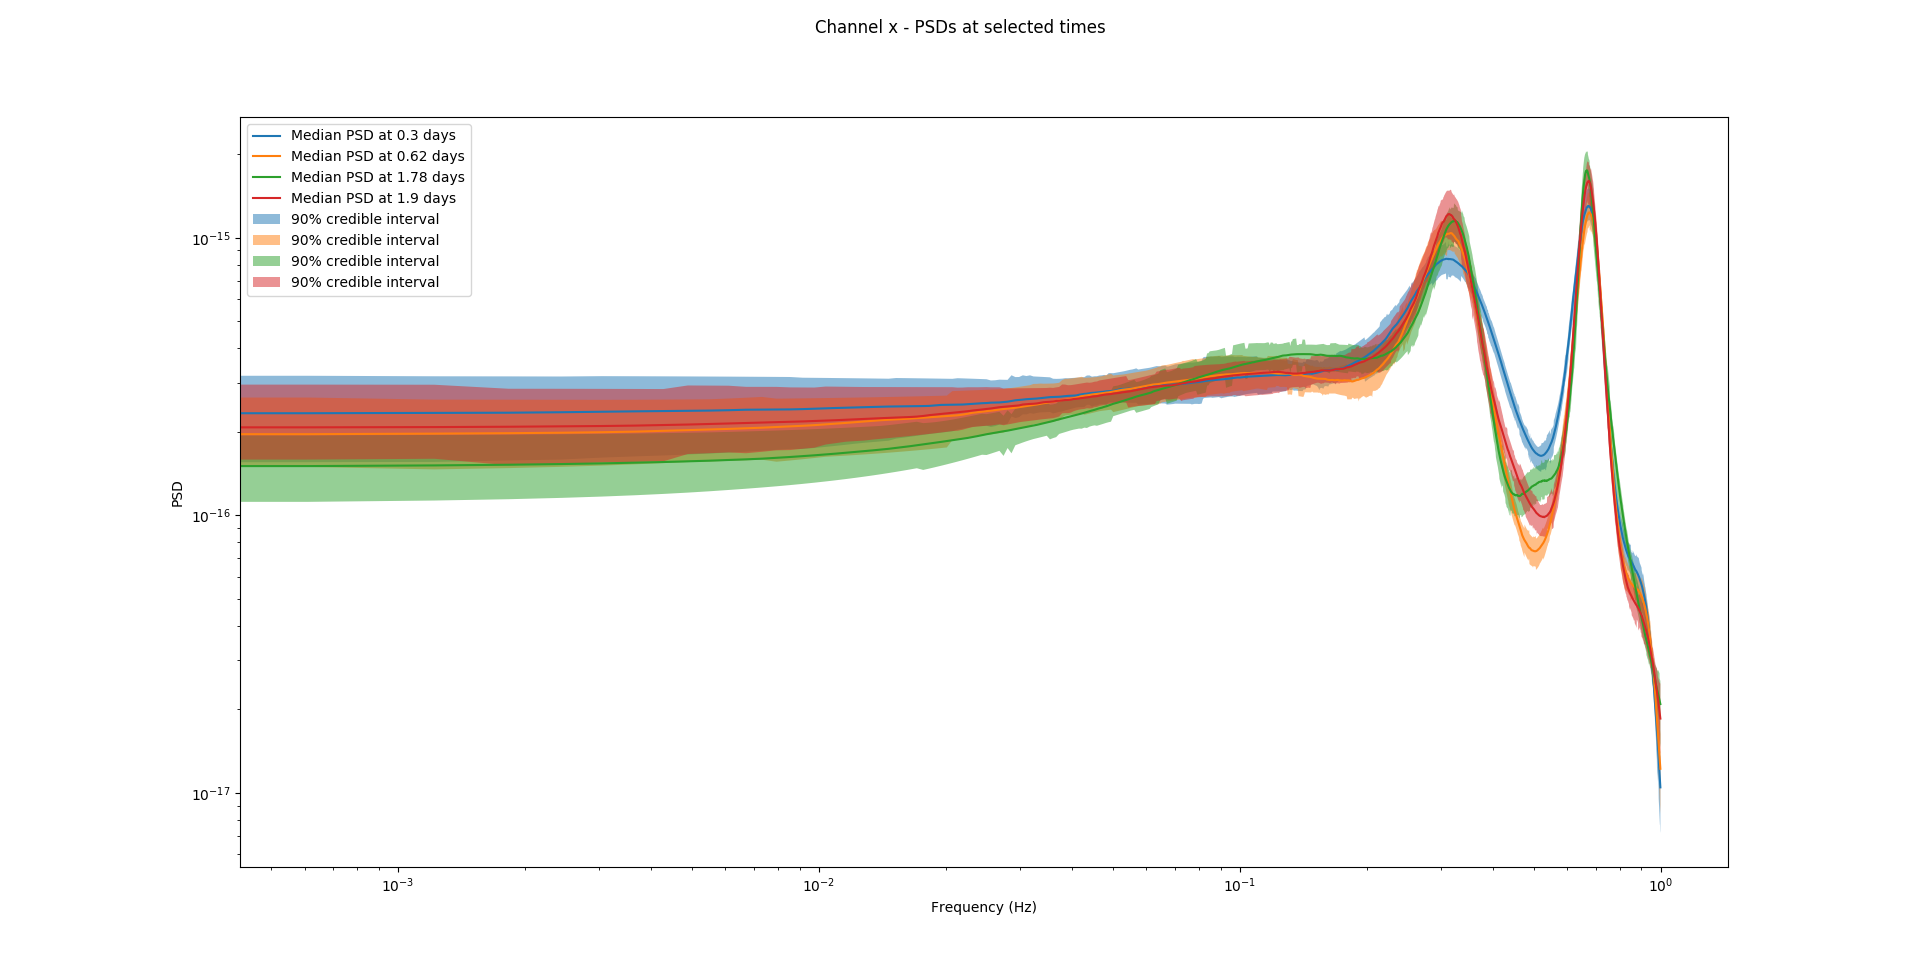
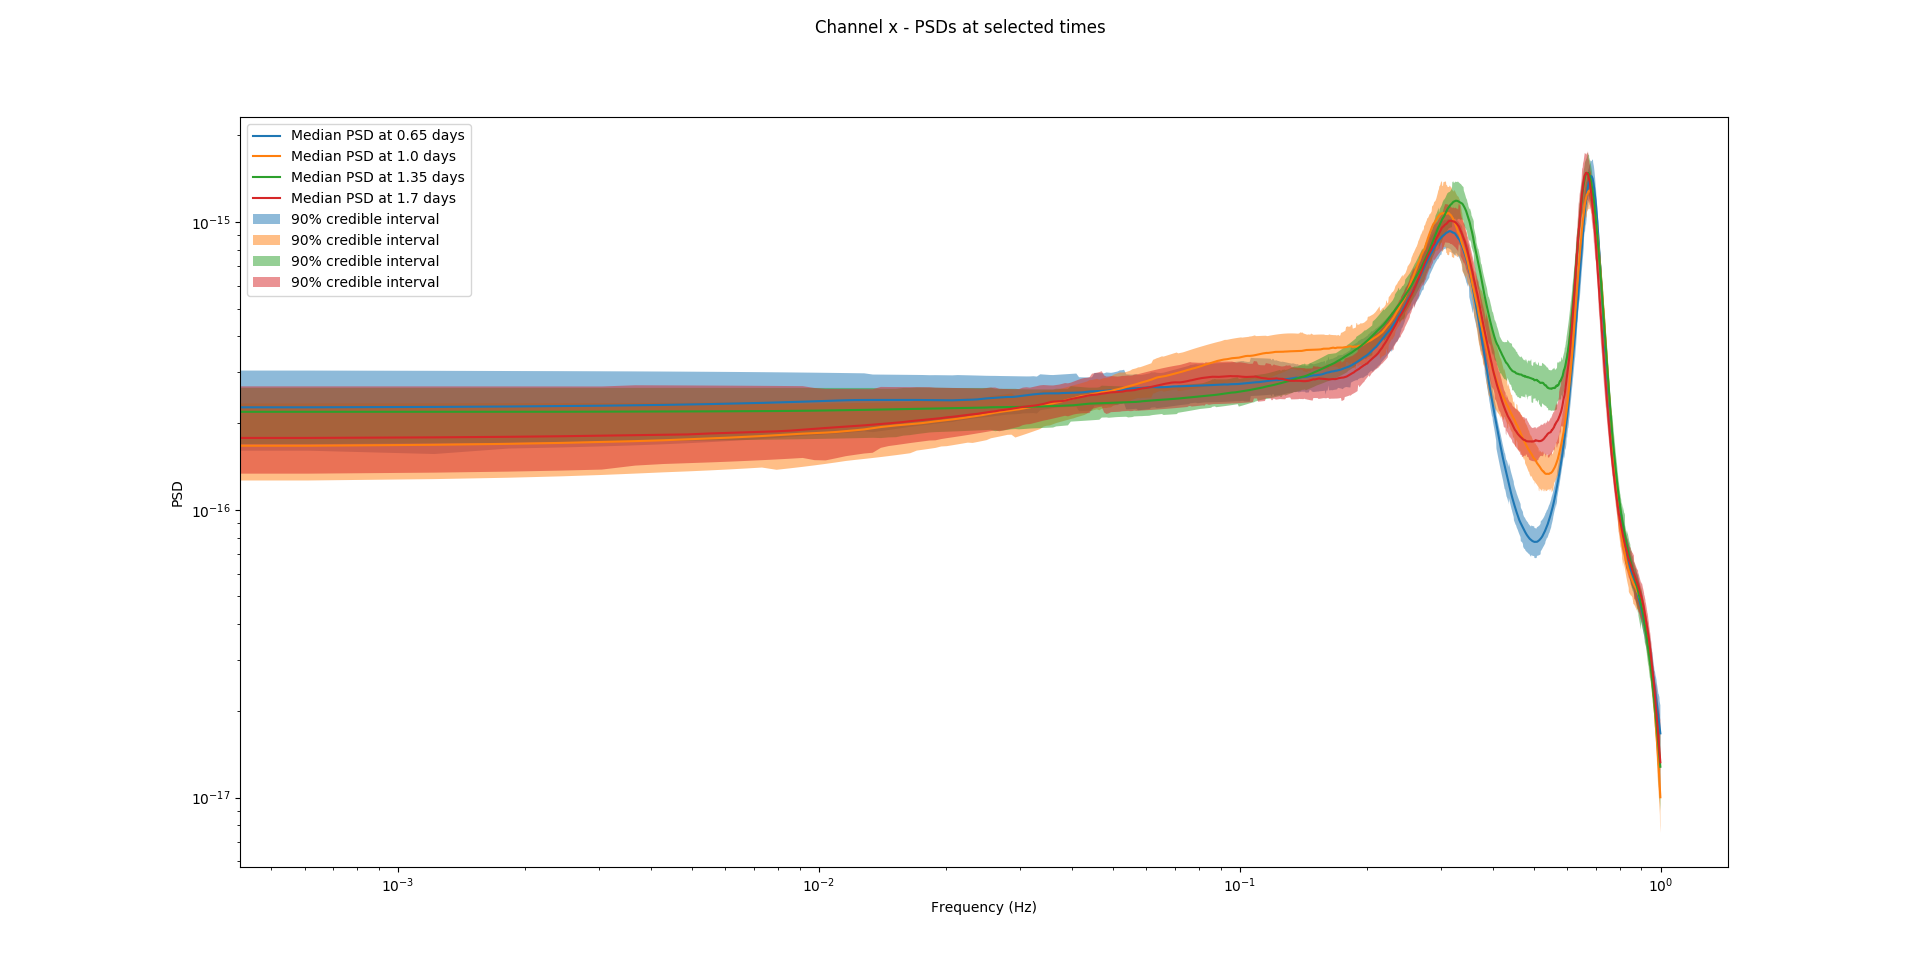
fixed x tslice plot

diff --git a/time_variance.py b/time_variance.py
@@ -270,9 +270,9 @@ plot_freq_slice(fig, axs[1,1], 0.99, delta_t_days, summaries, cred)
 # Time slice
 fig, axs = plt.subplots(1,1)
 fig.suptitle('Channel ' + channels[channel] + ' - PSDs at selected times')
-plot_time_slice(fig, axs, 0.30, delta_t_days, summaries, cred, logpsd=True)
-plot_time_slice(fig, axs, 0.62, delta_t_days, summaries, cred)
-plot_time_slice(fig, axs, 1.78, delta_t_days, summaries, cred)
-plot_time_slice(fig, axs, 1.90, delta_t_days, summaries, cred)
+plot_time_slice(fig, axs, 0.65, delta_t_days, summaries, cred, logpsd=True)
+plot_time_slice(fig, axs, 1.00, delta_t_days, summaries, cred)
+plot_time_slice(fig, axs, 1.35, delta_t_days, summaries, cred)
+plot_time_slice(fig, axs, 1.70, delta_t_days, summaries, cred)
 axs.title.set_text('')
 plt.show()
